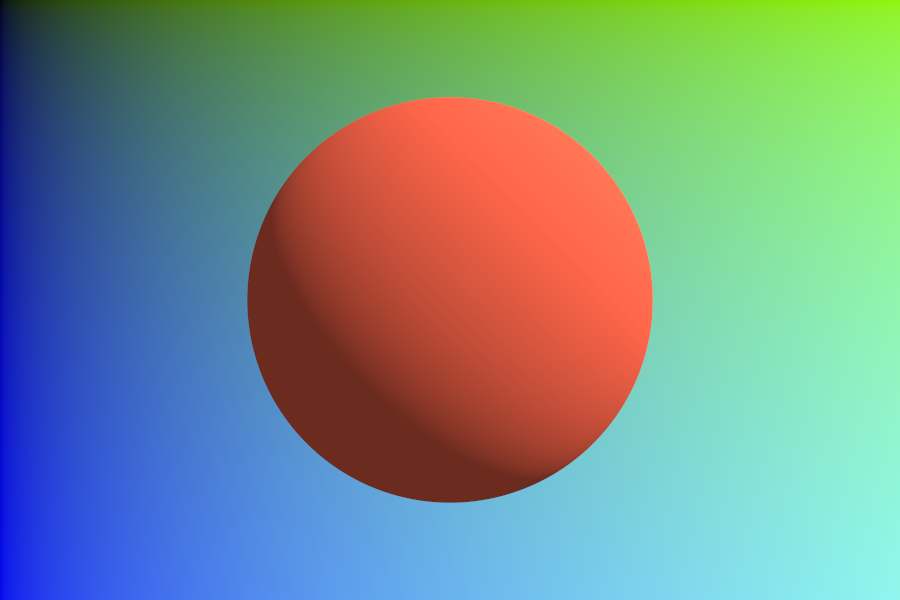
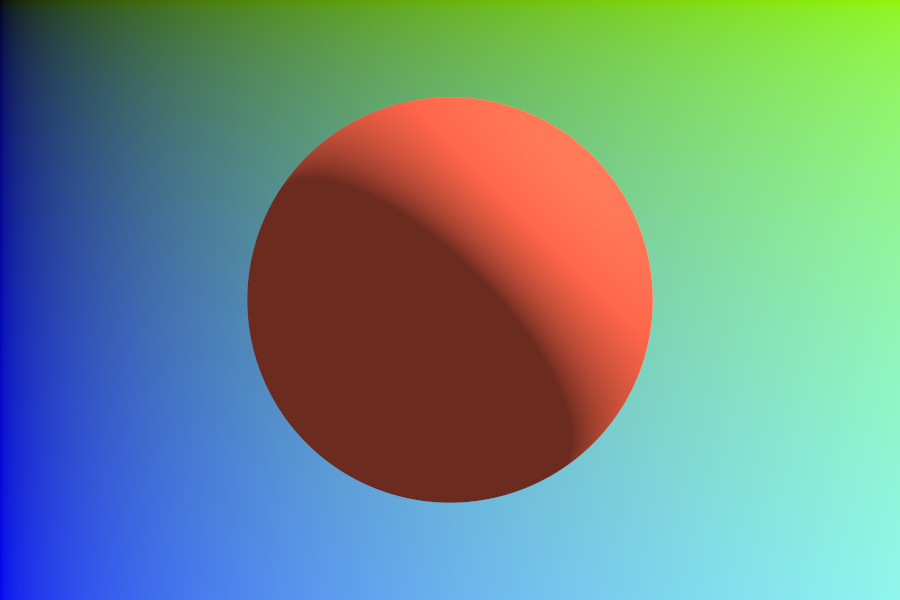
update

Changed region(s): [[0.3111, 0.24, 0.6844, 0.78]]

diff --git a/cgg-abgaben-gitHub/src/engel865650/a04/Main.java b/cgg-abgaben-gitHub/src/engel865650/a04/Main.java
@@ -1,0 +1,182 @@
+package engel865650.a04;
+
+import java.io.IOException;
+import java.util.ArrayList;
+import java.util.List;
+
+import cgtools.Vec3;
+import engel865650.Image;
+import engel865650.a03.CObscura;
+import engel865650.a03.Hit;
+import engel865650.a03.Ray;
+
+public class Main {
+
+	private static final int width = 1600;
+	private static final int height = 900;
+	public static Image image = null;
+	public static Globe globe = null;
+	private static CObscura obscura = null;
+	private static Vec3 color, background, shade = null;
+
+	public static void main(String[] args) {
+		a04_spheres();
+		a04_scene();
+	}
+
+	public static void a04_spheres() {
+		image = new Image(width, height);
+		obscura = new CObscura(Math.PI / 3, image.getWidth(), image.getHeight());
+		Plane plane = new Plane(new Vec3(0.0, -0.5, 0.0), new Vec3(0, 1, 0), Vec3.gray);
+		Background background = new Background(Vec3.black);
+		Shape globe1 = new Globe(new Vec3(-1.0, -0.25, -2.5), 0.7, Vec3.red);
+		Shape globe2 = new Globe(new Vec3(0.0, -0.25, -2.5), 0.5, Vec3.green);
+		Shape globe3 = new Globe(new Vec3(1.0, -0.25, -2.5), 0.7, Vec3.blue);
+		Shape globe4 = new Globe(new Vec3(0.0, 0.8, -2.5), 0.3, Vec3.white);
+		List<Shape> shapes = new ArrayList<Shape>();
+		shapes.add(plane);
+		shapes.add(background);
+		shapes.add(globe1);
+		shapes.add(globe2);
+		shapes.add(globe3);
+		shapes.add(globe4);
+		Group group = new Group(shapes);
+		raytraceSpheres(obscura, group, 10);
+	}
+
+	public static void a04_scene() {
+		image = new Image(width, height);
+		obscura = new CObscura(Math.PI / 3, image.getWidth(), image.getHeight());
+		Plane plane = new Plane(new Vec3(0.0, -1.0, 0.0), new Vec3(-0.2, 1.8, 0.0), Vec3.gray);
+		Plane plane2 = new Plane(new Vec3(0.0, -1.0, 0.0), new Vec3(0.2, 1.8, 0.0), Vec3.white);
+		Background background = new Background(Vec3.black);
+
+		// Globe (x, y, z) -> z determines the distance to the camera
+		// Ball in middle, and feet
+		Shape globe2 = new Globe(new Vec3(0.0, 0.0, -2.5), 0.4, Vec3.green);
+		Shape globe9 = new Globe(new Vec3(0.0, 0.0, -2.0), 0.1, new Vec3(0.05, 0.05, 0.05));
+		Shape globe1 = new Globe(new Vec3(-0.4, -0.3, -2.5), 0.3, Vec3.red);
+		Shape globe3 = new Globe(new Vec3(0.4, -0.3, -2.5), 0.3, Vec3.blue);
+		Shape globe5 = new Globe(new Vec3(0.8, -0.6, -2.5), 0.3, new Vec3(1, 1, 0));
+		Shape globe6 = new Globe(new Vec3(1.2, -0.9, -2.5), 0.3, new Vec3(1, 0, 1));
+		Shape globe7 = new Globe(new Vec3(-0.8, -0.6, -2.5), 0.3, new Vec3(0, 1, 1));
+		Shape globe8 = new Globe(new Vec3(-1.2, -0.9, -2.5), 0.3, new Vec3(1.9, 0.75, 0.2));
+		// End
+
+		// Both arms
+		Shape globe4 = new Globe(new Vec3(-0.4, 0.3, -2.5), 0.3, Vec3.white);
+		Shape globe10 = new Globe(new Vec3(0.4, 0.3, -2.5), 0.3, Vec3.white);
+		Shape globe11 = new Globe(new Vec3(0.7, 0.5, -2.0), 0.25, Vec3.white);
+		Shape globe12 = new Globe(new Vec3(1.2, 0.9, -2.5), 0.25, Vec3.white);
+		Shape globe13 = new Globe(new Vec3(1.2, 1.2, -2.5), 0.25, Vec3.white);
+		Shape globe14 = new Globe(new Vec3(-0.7, 0.5, -2.0), 0.25, Vec3.white);
+		Shape globe15 = new Globe(new Vec3(-1.2, 0.9, -2.5), 0.25, Vec3.white);
+		Shape globe16 = new Globe(new Vec3(-1.2, 1.2, -2.5), 0.25, Vec3.white);
+		// End
+
+		// All balls in the middle. Balls go backwards.
+		Shape globe17 = new Globe(new Vec3(0.0, 0.6, -2.5), 0.15, Vec3.white);
+		Shape globe18 = new Globe(new Vec3(0.0, 0.9, -2.9), 0.15, Vec3.white);
+		Shape globe19 = new Globe(new Vec3(0.0, 1.2, -3.3), 0.15, Vec3.white);
+		Shape globe20 = new Globe(new Vec3(0.0, 1.5, -3.7), 0.15, Vec3.white);
+		Shape globe21 = new Globe(new Vec3(0.0, 1.8, -4.1), 0.15, Vec3.red);
+		Shape globe22 = new Globe(new Vec3(0.0, 2.1, -4.5), 0.15, Vec3.green);
+		Shape globe23 = new Globe(new Vec3(0.0, 2.4, -4.9), 0.15, Vec3.blue);
+		Shape globe24 = new Globe(new Vec3(0.0, 2.7, -5.3), 0.15, Vec3.white);
+		Shape globe25 = new Globe(new Vec3(0.0, 3.0, -5.7), 0.15, Vec3.white);
+		Shape globe26 = new Globe(new Vec3(0.0, 3.3, -6.1), 0.15, Vec3.white);
+		Shape globe27 = new Globe(new Vec3(0.0, 3.6, -6.5), 0.15, Vec3.white);
+		// End
+
+		List<Shape> shapes = new ArrayList<Shape>();
+		shapes.add(plane);
+		shapes.add(plane2);
+		shapes.add(background);
+		shapes.add(globe1);
+		shapes.add(globe2);
+		shapes.add(globe3);
+		shapes.add(globe4);
+		shapes.add(globe5);
+		shapes.add(globe6);
+		shapes.add(globe7);
+		shapes.add(globe8);
+		shapes.add(globe9);
+		shapes.add(globe10);
+		shapes.add(globe11);
+		shapes.add(globe12);
+		shapes.add(globe13);
+		shapes.add(globe14);
+		shapes.add(globe15);
+		shapes.add(globe16);
+		shapes.add(globe17);
+		shapes.add(globe18);
+		shapes.add(globe19);
+		shapes.add(globe20);
+		shapes.add(globe21);
+		shapes.add(globe22);
+		shapes.add(globe23);
+		shapes.add(globe24);
+		shapes.add(globe25);
+		shapes.add(globe26);
+		shapes.add(globe27);
+		Group group = new Group(shapes);
+		raytraceScene(obscura, group, 10);
+	}
+
+	public static Image raytraceSpheres(CObscura obscura, Group group, int sampler) {
+		for (int x = 0; x != width; x++) {
+			for (int y = 0; y != height; y++) {
+				color = new Vec3(0, 0, 0);
+				for (int xi = 0; xi < sampler; xi++) {
+					for (int yi = 0; yi < sampler; yi++) {
+						double rx = Math.random();
+						double ry = Math.random();
+						double xs = x + (xi + rx) / sampler;
+						double ys = y + (yi + ry) / sampler;
+						Ray currentRay = obscura.generate(xs, ys);
+						Hit hit = group.intersect(currentRay);
+						shade = Globe.lightSurface(hit.getPositionHit(), hit.getNormalVector(), hit.getColor());
+						background = Vec3.divide(shade, sampler * sampler);
+						color = Vec3.add(color, background);
+					}
+				}
+				image.setPixel(x, y, color);
+			}
+		}
+		write(image, "doc/a04-3-spheres.png");
+		return image;
+	}
+
+	public static Image raytraceScene(CObscura obscura, Group group, int sampler) {
+		for (int x = 0; x != width; x++) {
+			for (int y = 0; y != height; y++) {
+				color = new Vec3(0, 0, 0);
+				for (int xi = 0; xi < sampler; xi++) {
+					for (int yi = 0; yi < sampler; yi++) {
+						double rx = Math.random();
+						double ry = Math.random();
+						double xs = x + (xi + rx) / sampler;
+						double ys = y + (yi + ry) / sampler;
+						Ray currentRay = obscura.generate(xs, ys);
+						Hit hit = group.intersect(currentRay);
+						shade = Globe.lightSurface(hit.getPositionHit(), hit.getNormalVector(), hit.getColor());
+						background = Vec3.divide(shade, sampler * sampler);
+						color = Vec3.add(color, background);
+					}
+				}
+				image.setPixel(x, y, color);
+			}
+		}
+		write(image, "doc/a04-scene.png");
+		return image;
+	}
+
+	static void write(Image image, String filename) {
+		try {
+			image.write(filename);
+			System.out.println("Wrote image: " + filename);
+		} catch (IOException error) {
+			System.out.println(String.format("Something went wrong writing: %s: %s", filename, error));
+		}
+	}
+}

diff --git a/cgg-abgaben-gitHub/src/engel865650/a04/Globe.java b/cgg-abgaben-gitHub/src/engel865650/a04/Globe.java
@@ -1,21 +1,21 @@
-package engel865650.a03;
+package engel865650.a04;
 
-import cgtools.Random;
 import cgtools.Vec3;
+import engel865650.a03.Hit;
+import engel865650.a03.Ray;
 
-public class Ball {
+public class Globe implements Shape {
 
 	private Vec3 position, ballColor = null;
-	private double radius, colorGradientX, colorGradientY = 0;
+	private double radius = 0;
 
-	private int sampling = 10;
-
-	public Ball(Vec3 p, double r, Vec3 bc) {
+	public Globe(Vec3 p, double r, Vec3 c) {
 		this.position = p;
 		this.radius = r;
-		this.ballColor = bc;
+		this.ballColor = c;
 	}
 
+	@Override
 	public Hit intersect(Ray r) {
 		Vec3 new_position = Vec3.subtract(r.getOrigin(), position);
 
@@ -40,7 +40,7 @@ public class Ball {
 			t = t2;
 
 			if (t > r.getTmin() && t < r.getTmax()) {
-				Vec3 point = r.pointAt(t1);
+				Vec3 point = r.pointAt(t);
 				Vec3 normVec = Vec3.divide(Vec3.subtract(point, position), radius);
 				return new Hit(t, point, normVec, ballColor);
 			}
@@ -48,18 +48,18 @@ public class Ball {
 
 		if (discriminant > 0) {
 			// pq
-			double t1 = (-(b + Math.sqrt(discriminant))) / (2 * a);
-			double t2 = (-(b - Math.sqrt(discriminant))) / (2 * a);
+			double t1 = (-b + Math.sqrt(discriminant)) / (2 * a);
+			double t2 = (-b - Math.sqrt(discriminant)) / (2 * a);
 
 			if (t1 < t2) {
 				t = t1;
+			} else {
+				t = t2;
 			}
-			t = t2;
-
 			if (t > r.getTmin() && t < r.getTmax()) {
 				Vec3 point = r.pointAt(t);
-				Vec3 normVec = Vec3.divide(Vec3.subtract(point, position), radius);
-				return new Hit(t, point, normVec, ballColor);
+				Vec3 normV = Vec3.divide(Vec3.subtract(point, position), radius);
+				return new Hit(t, point, normV, ballColor);
 			}
 		}
 		return null;
@@ -70,27 +70,6 @@ public class Ball {
 		Vec3 ambient = Vec3.multiply(0.1, color);
 		Vec3 diffuse = Vec3.multiply(0.9 * Double.max(0, Vec3.dotProduct(lightDir, normal)), color);
 		return Vec3.add(ambient, diffuse);
-	}
-
-	public Vec3 pixelColor(double x, double y) {
-		// background color
-		colorGradientX = ((double) x / 8) / Main.image.getWidth();
-		colorGradientY = ((double) y / 5) / Main.image.getHeight();
-		return new Vec3(2.3 * colorGradientX, 7.3 * colorGradientX, 4.3 * colorGradientY);
-	}
-
-	public Vec3 stratified_Sampling(double x, double y) {
-		Vec3 isResult = pixelColor(x, y);
-		for (int xi = 0; xi < sampling; xi++) {
-			for (int yi = 0; yi < sampling; yi++) {
-				double rx = Random.random();
-				double ry = Random.random();
-				double xs = x + (xi + rx) / sampling;
-				double ys = y + (yi + ry) / sampling;
-				isResult = Vec3.add(isResult, pixelColor(xs, ys));
-			}
-		}
-		return Vec3.divide(isResult, sampling * sampling);
 	}
 
 }

diff --git a/cgg-abgaben-gitHub/src/engel865650/a04/Group.java b/cgg-abgaben-gitHub/src/engel865650/a04/Group.java
@@ -1,0 +1,42 @@
+package engel865650.a04;
+
+import java.util.ArrayList;
+import java.util.List;
+
+import engel865650.a03.Hit;
+import engel865650.a03.Ray;
+
+public class Group implements Shape {
+
+	private List<Shape> shapes = new ArrayList<Shape>();
+	// ArrayList is not necessary -> array would do, too!
+	// Also, array would be faster.
+
+	public Group(List<Shape> s) {
+		this.shapes = s;
+	}
+
+	@Override
+	public Hit intersect(Ray r) {
+		Hit h = null;
+		for (Shape shape : shapes) {
+			Hit hit = shape.intersect(r);
+			if (hit == null) {
+				continue;
+			} else {
+				if (h == null) {
+					h = hit;
+				} else {
+					if (hit.getRayParameter() < h.getRayParameter()) {
+						h = hit;
+					}
+
+				}
+			}
+
+		}
+
+		return h;
+	}
+
+}

diff --git a/cgg-abgaben-gitHub/src/engel865650/a04/Plane.java b/cgg-abgaben-gitHub/src/engel865650/a04/Plane.java
@@ -1,0 +1,31 @@
+package engel865650.a04;
+
+import cgtools.Vec3;
+import engel865650.a03.Hit;
+import engel865650.a03.Ray;
+
+public class Plane implements Shape {
+
+	private Vec3 color, normVec, anchorP = null;
+
+	public Plane(Vec3 ap, Vec3 nv, Vec3 c) {
+		this.anchorP = ap;
+		this.normVec = nv;
+		this.color = c;
+	}
+
+	public Vec3 getColor() {
+		return color;
+	}
+
+	@Override
+	public Hit intersect(Ray r) {
+		double t = (Vec3.dotProduct(anchorP, normVec) - Vec3.dotProduct(normVec, r.getOrigin()))
+				/ Vec3.dotProduct(r.getDirection(), normVec);
+		if (t > r.getTmin() && t < r.getTmax()) {
+			Vec3 point = r.pointAt(t);
+			return new Hit(t, point, normVec, color);
+		}
+		return null;
+	}
+}

diff --git a/cgg-abgaben-gitHub/src/engel865650/a04/Background.java b/cgg-abgaben-gitHub/src/engel865650/a04/Background.java
@@ -1,0 +1,26 @@
+package engel865650.a04;
+
+import cgtools.Vec3;
+import engel865650.a03.Hit;
+import engel865650.a03.Ray;
+
+public class Background implements Shape {
+
+	private Vec3 backgroundColor = null;
+
+	public Background(Vec3 bc) {
+		this.backgroundColor = bc;
+	}
+
+	public Vec3 GetBackgroundColor() {
+		return backgroundColor;
+	}
+
+	@Override
+	public Hit intersect(Ray r) {
+		double ray_t = Double.POSITIVE_INFINITY;
+		Vec3 point = r.pointAt(ray_t);
+		return new Hit(ray_t, point, new Vec3(0, 0, 0), backgroundColor);
+	}
+
+}

diff --git a/cgg-abgaben-gitHub/src/engel865650/a03/Main.java b/cgg-abgaben-gitHub/src/engel865650/a03/Main.java
@@ -10,7 +10,7 @@ public class Main {
 	private static final int width = 900;
 	private static final int height = 600;
 	private static double sampler = 10;
-	protected static Image image = null;
+	public static Image image = null;
 	private static CObscura obscura = null;
 	private static Ball ball = null;
 	private static Vec3 color, background, shade = null;

diff --git a/cgg-abgaben-gitHub/src/engel865650/a04/Shape.java b/cgg-abgaben-gitHub/src/engel865650/a04/Shape.java
@@ -1,0 +1,8 @@
+package engel865650.a04;
+
+import engel865650.a03.Hit;
+import engel865650.a03.Ray;
+
+public interface Shape {
+	public Hit intersect(Ray r);
+}
